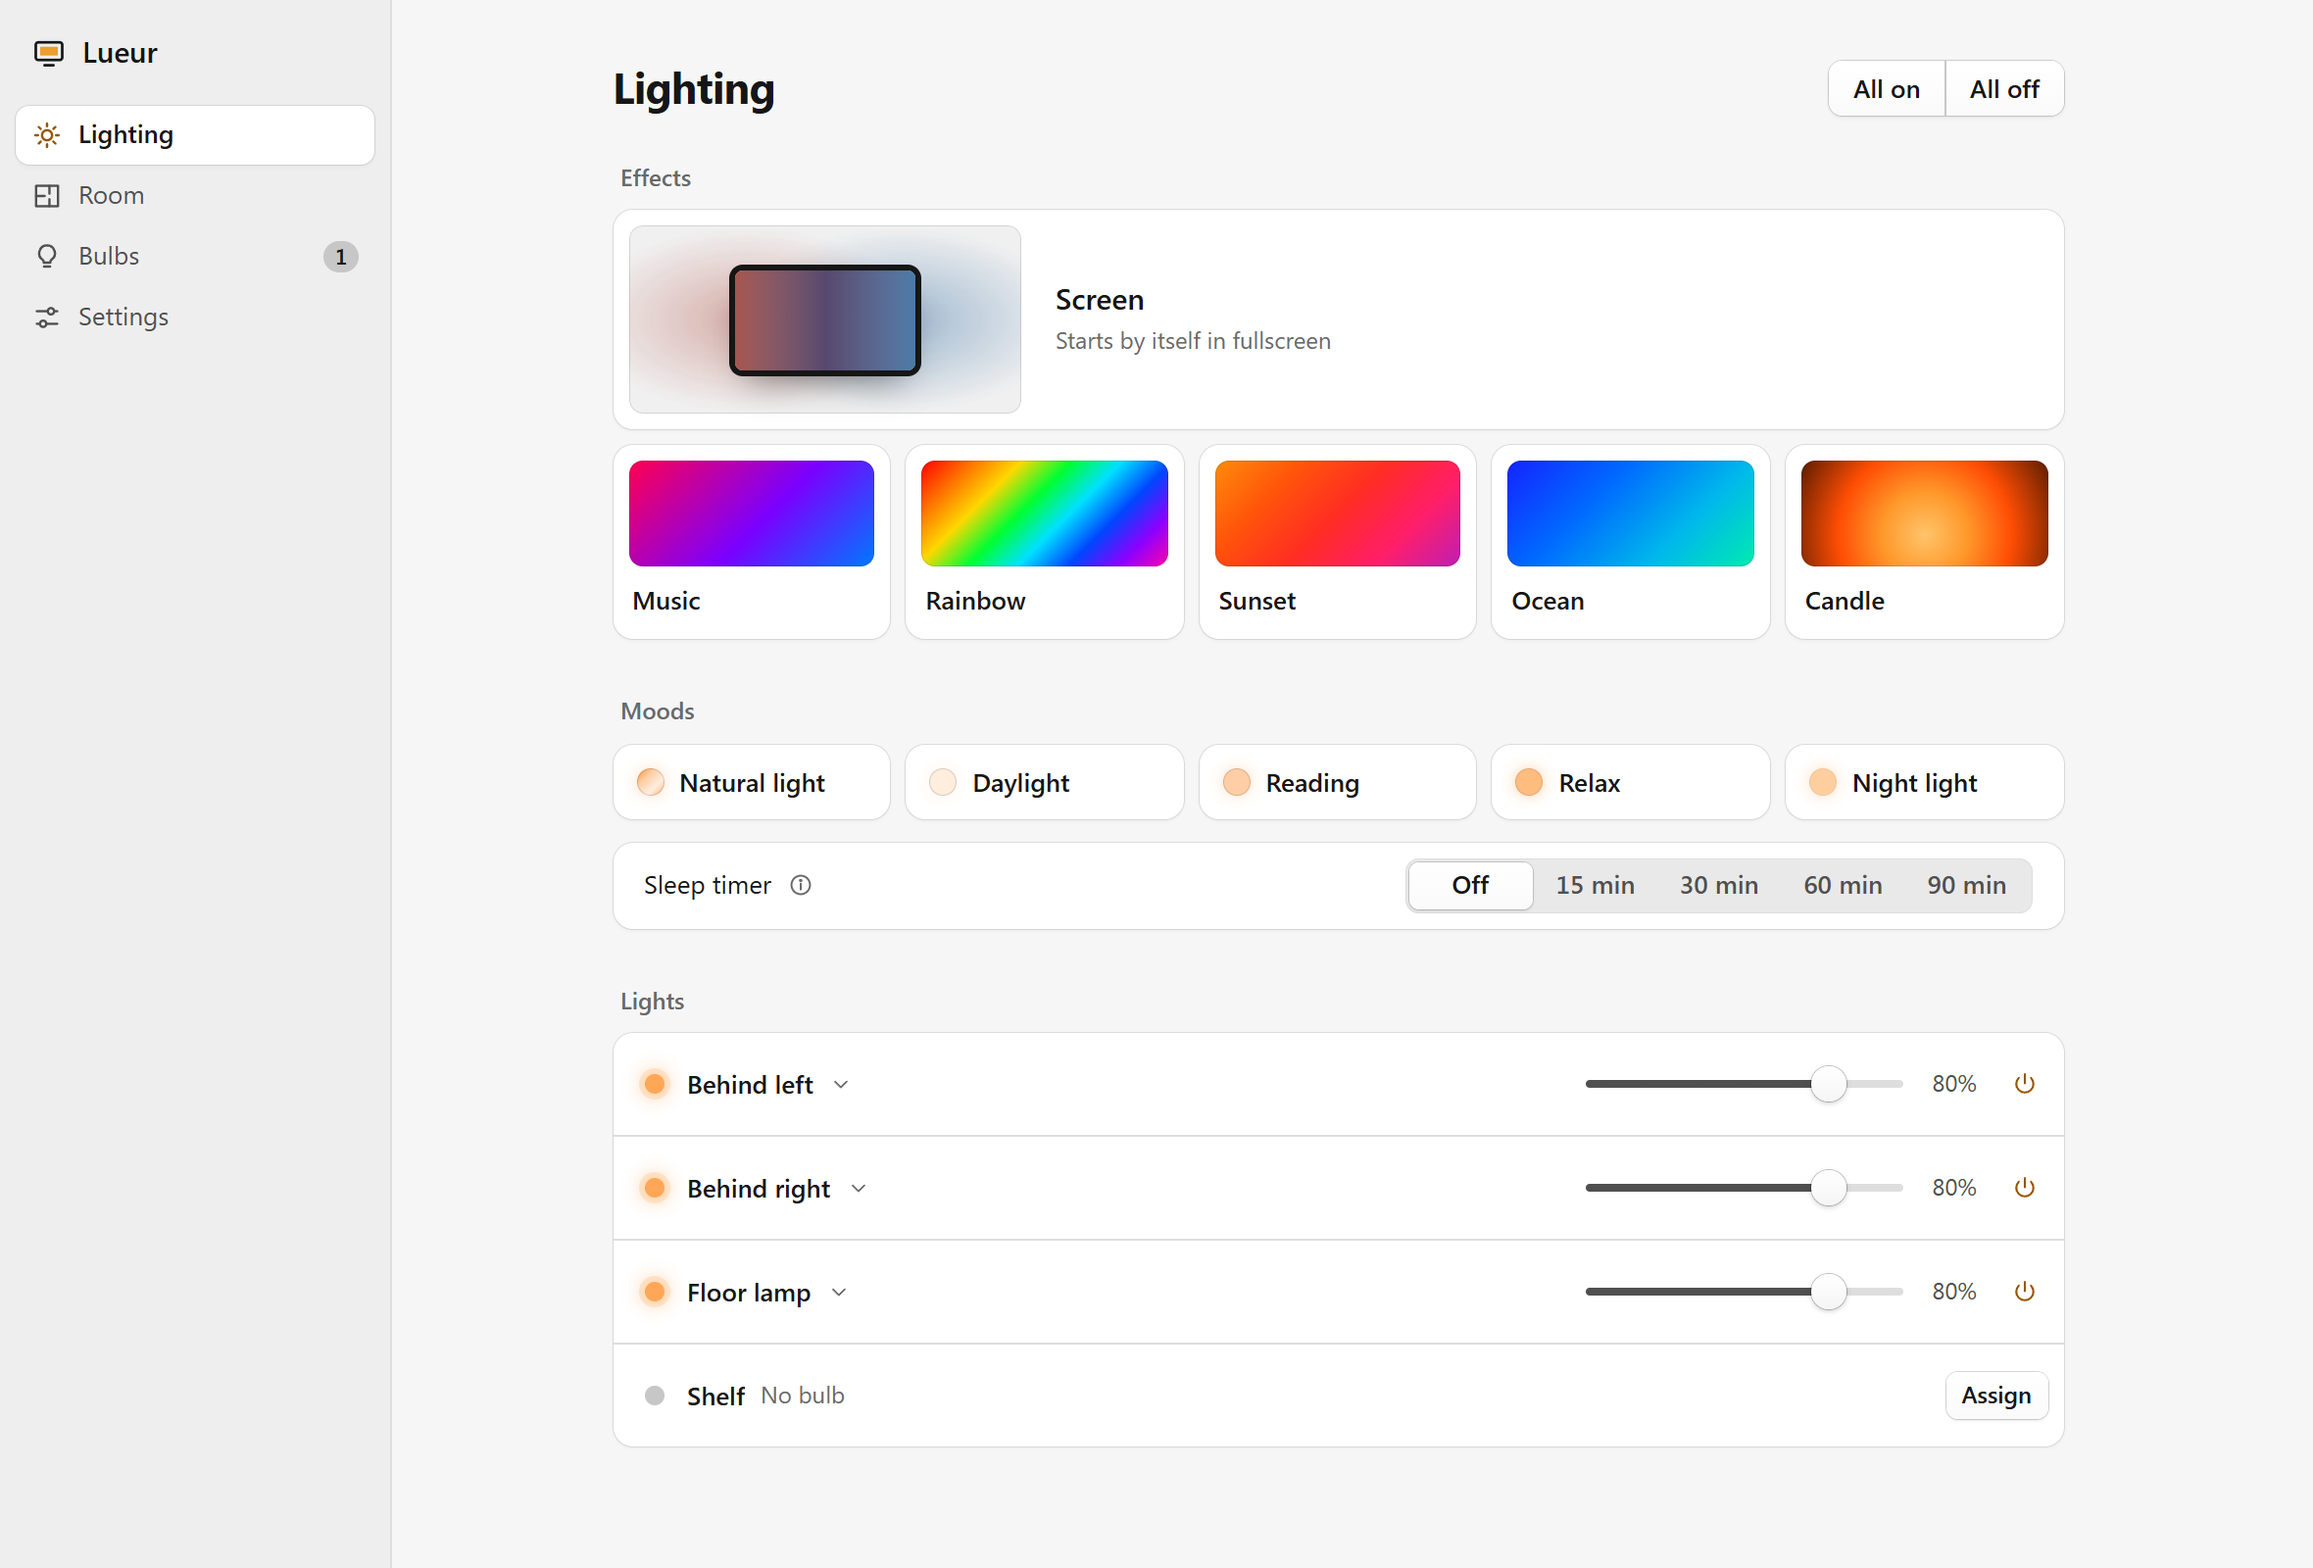
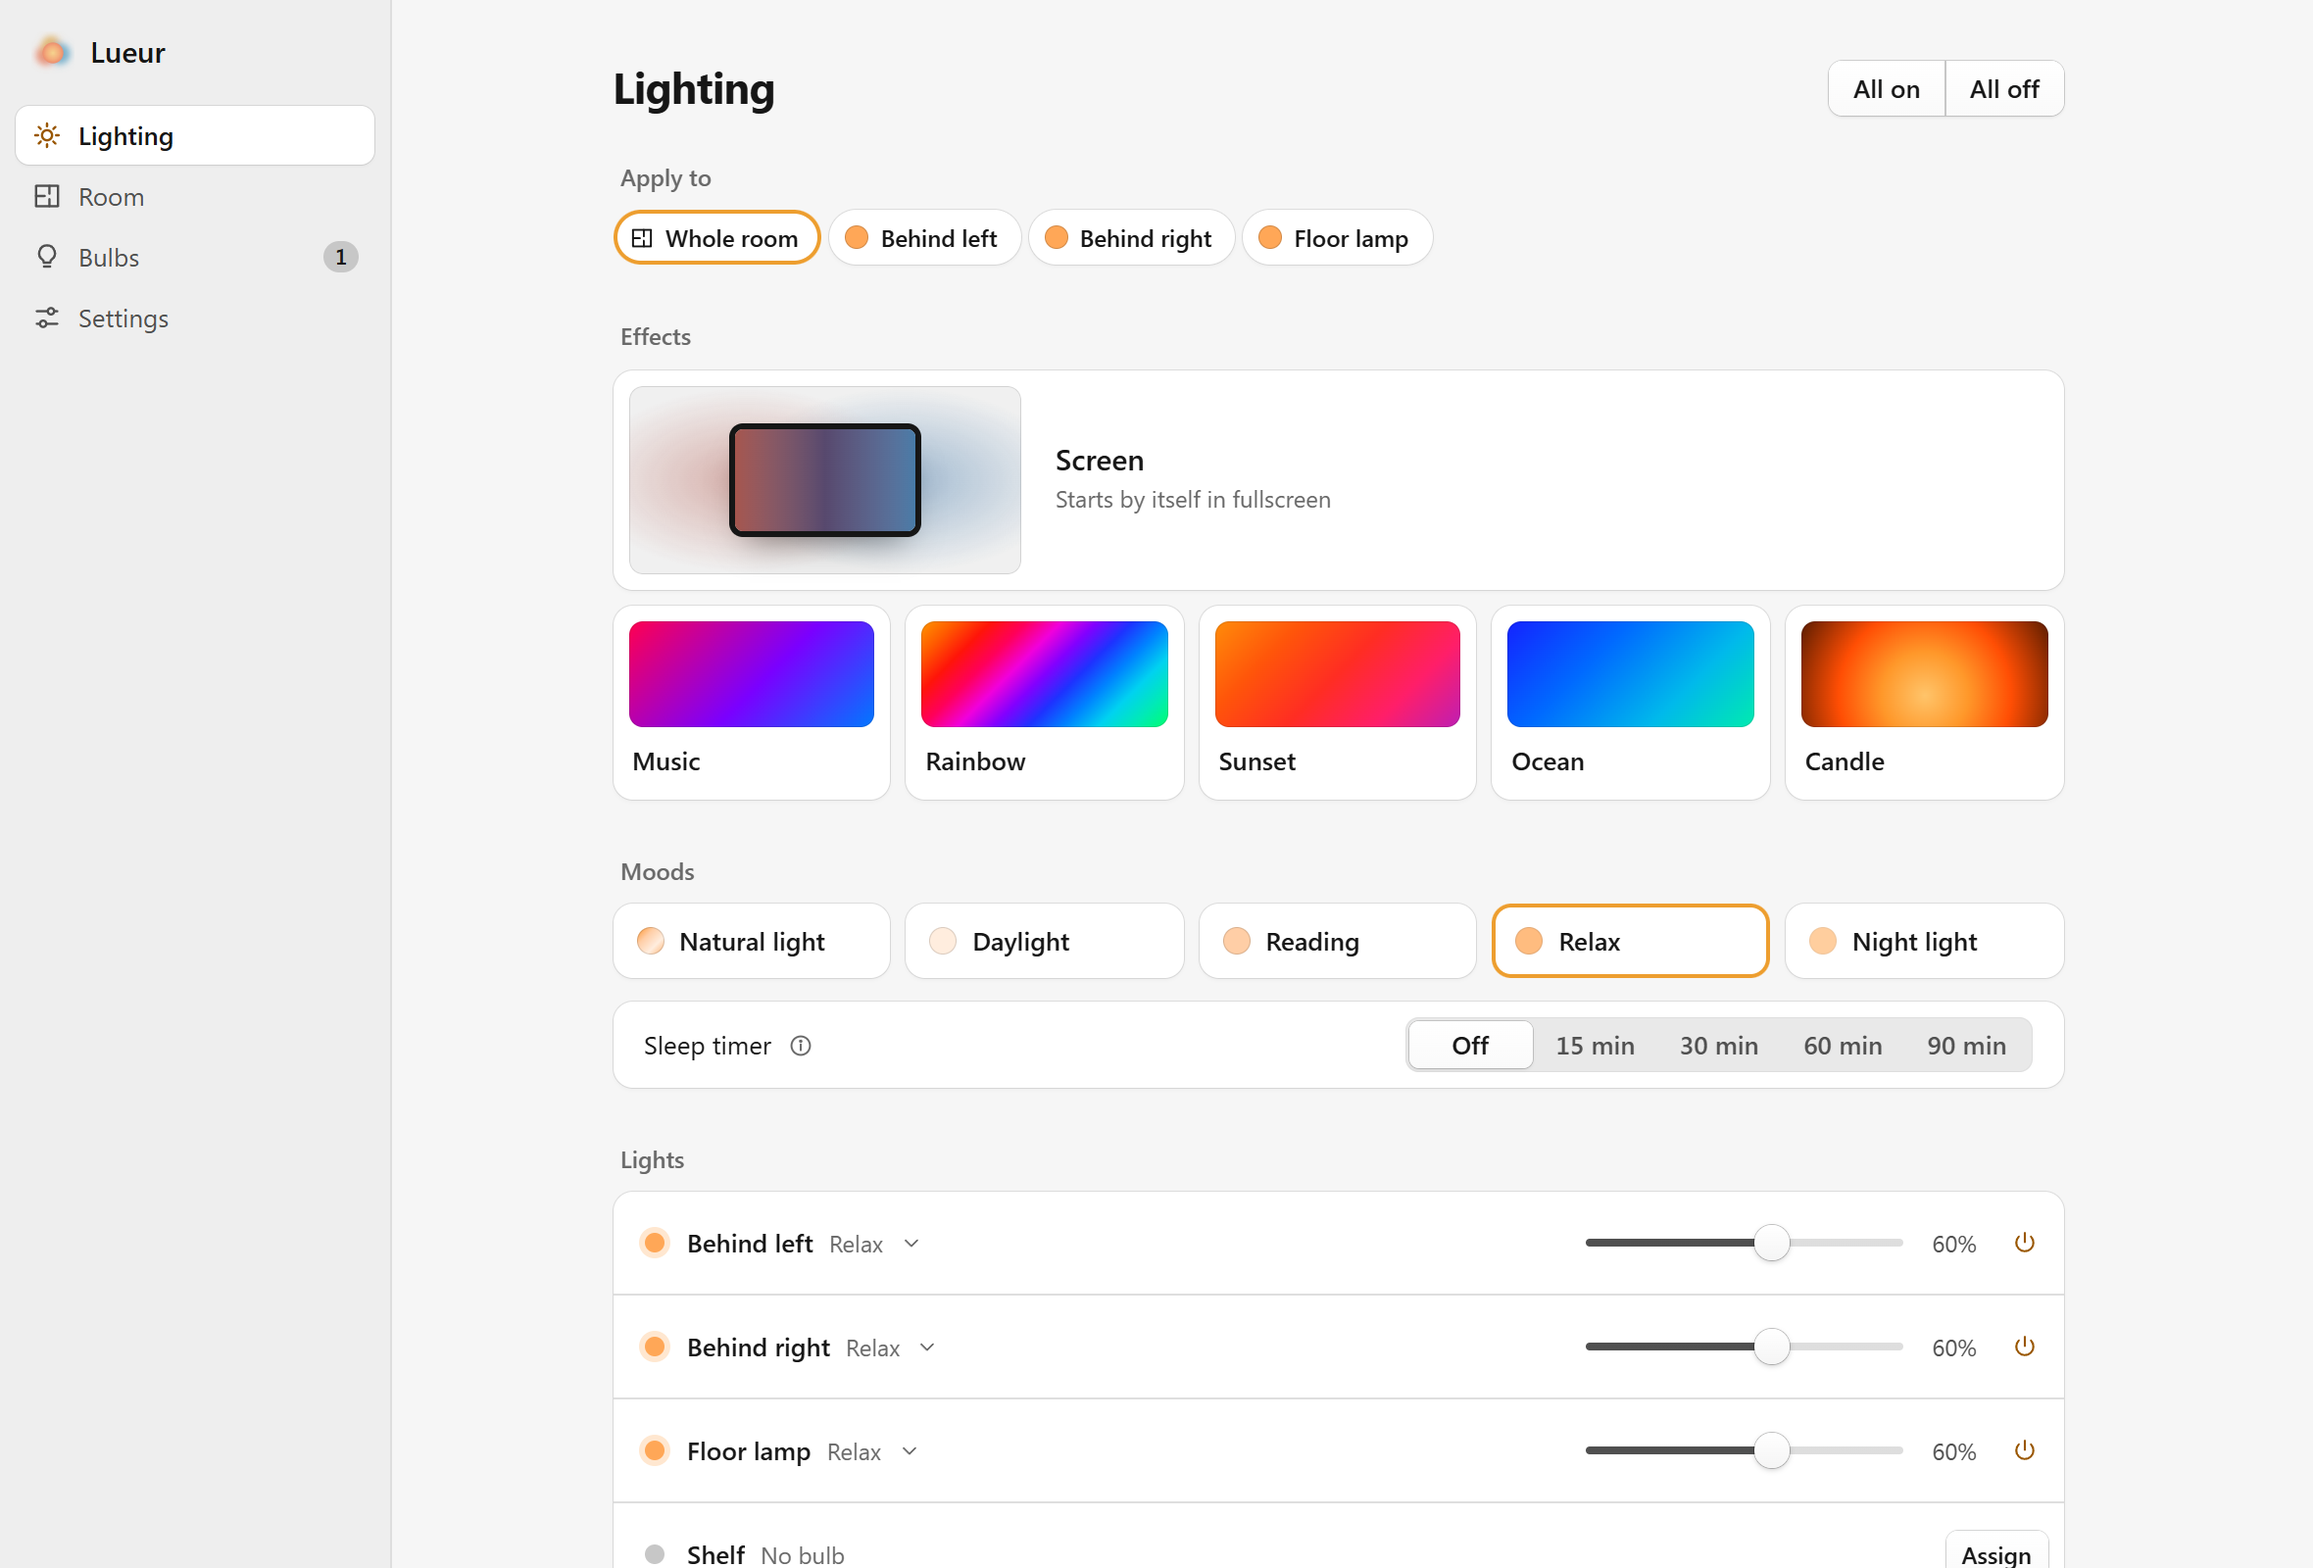
docs: fresh screenshots, and the tray as it now behaves

diff --git a/README.md b/README.md
@@ -54,7 +54,7 @@ to date.
     <td width="50%">
       <picture>
         <source media="(prefers-color-scheme: light)" srcset="docs/screenshots/lighting-light.png">
-        <img src="docs/screenshots/lighting-dark.png" alt="The Lighting page: screen ambilight, five effects, five moods, a sleep timer and every light with its brightness.">
+        <img src="docs/screenshots/lighting-dark.png" alt="The Lighting page: who effects and moods go to, the screen ambilight, five effects, five moods with Relax on, a sleep timer and every light with its mood and brightness.">
       </picture>
       <p><b>Lighting</b>: start the screen ambilight, pick an effect or a mood,
       and adjust each light.</p>
@@ -170,9 +170,11 @@ owner to add you to their home instead.
 
 ## Everyday use
 
-- **Tray.** Closing the window keeps Lueur in the tray (unless you turn that
-  off in Settings); the tray menu starts and stops the ambilight, so you never
-  have to leave a game.
+- **Tray.** Closing the window keeps Lueur in the tray. Turn off *Keep
+  running when closed* in Settings and closing quits instead, while
+  minimising goes to the tray (on Windows and Linux; a Mac minimises to the
+  Dock). The tray menu starts and stops the ambilight, so you never have to
+  leave a game.
 - **At login.** *Open at login* and *Start hidden in the tray* in Settings;
   each light picks up the effect it was left playing.
 - **Keyboard.** <kbd>Ctrl</kbd>/<kbd>⌘</kbd> + <kbd>1</kbd>–<kbd>4</kbd>
